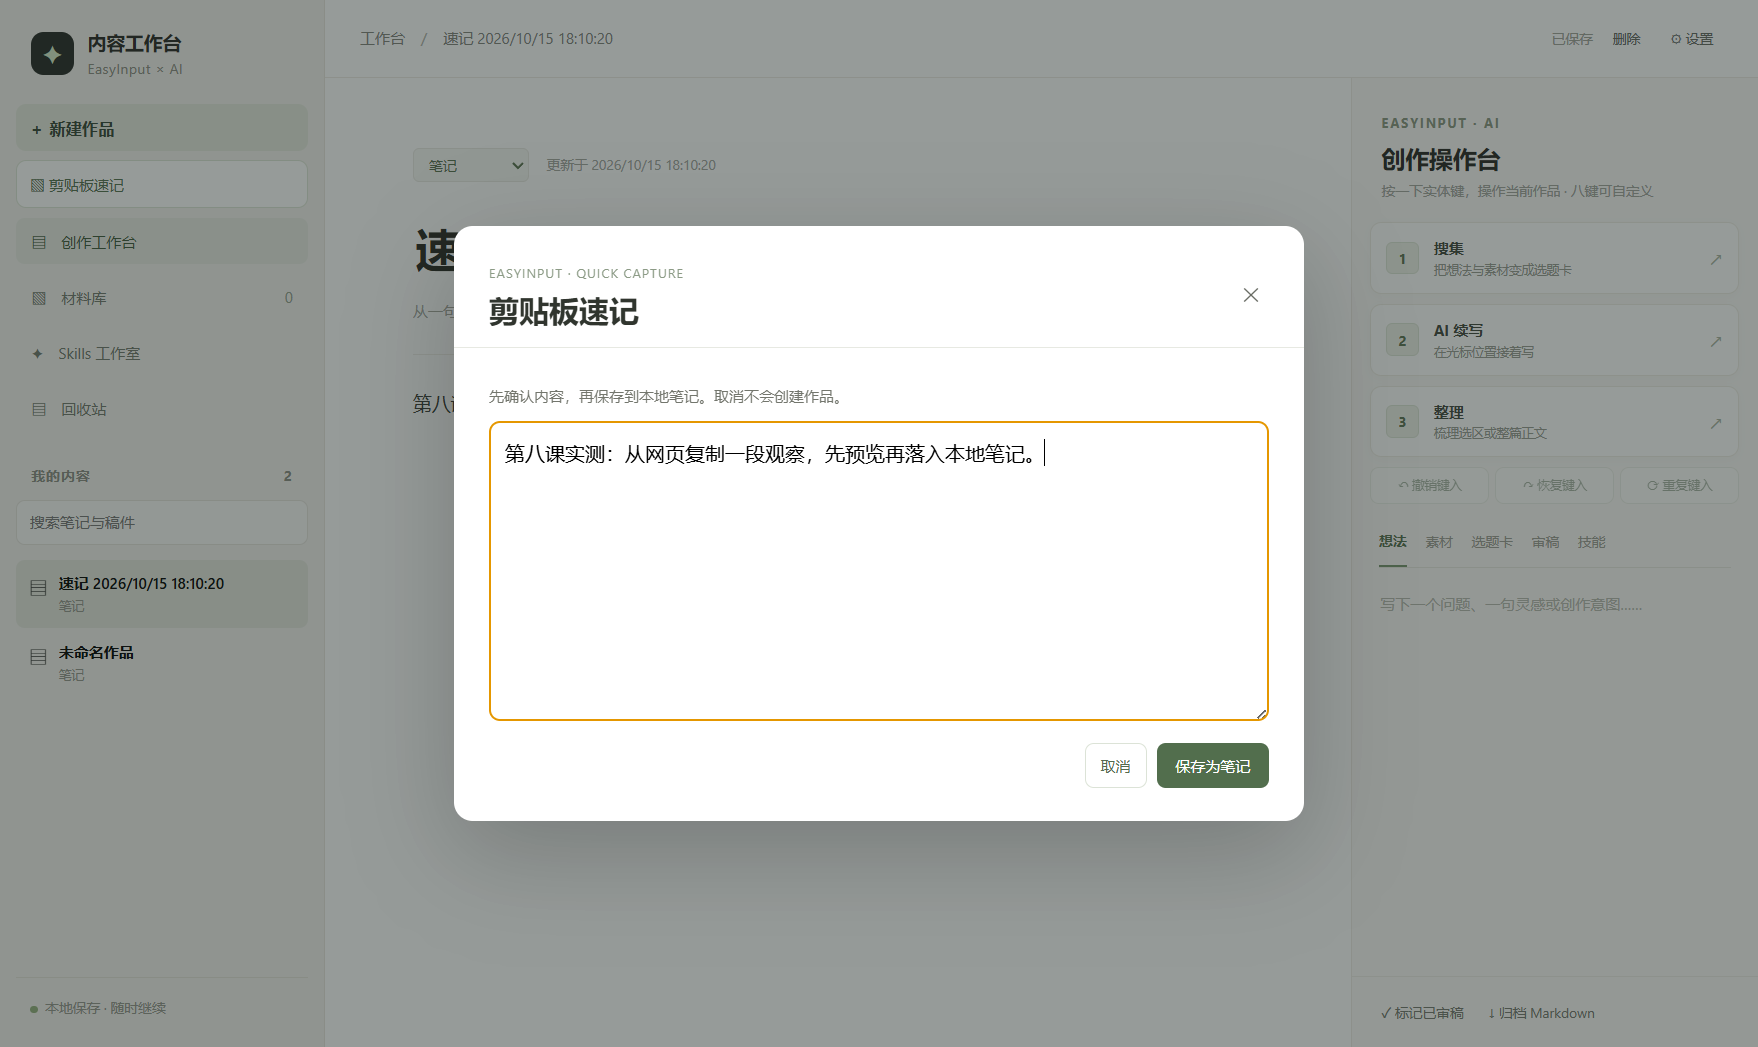
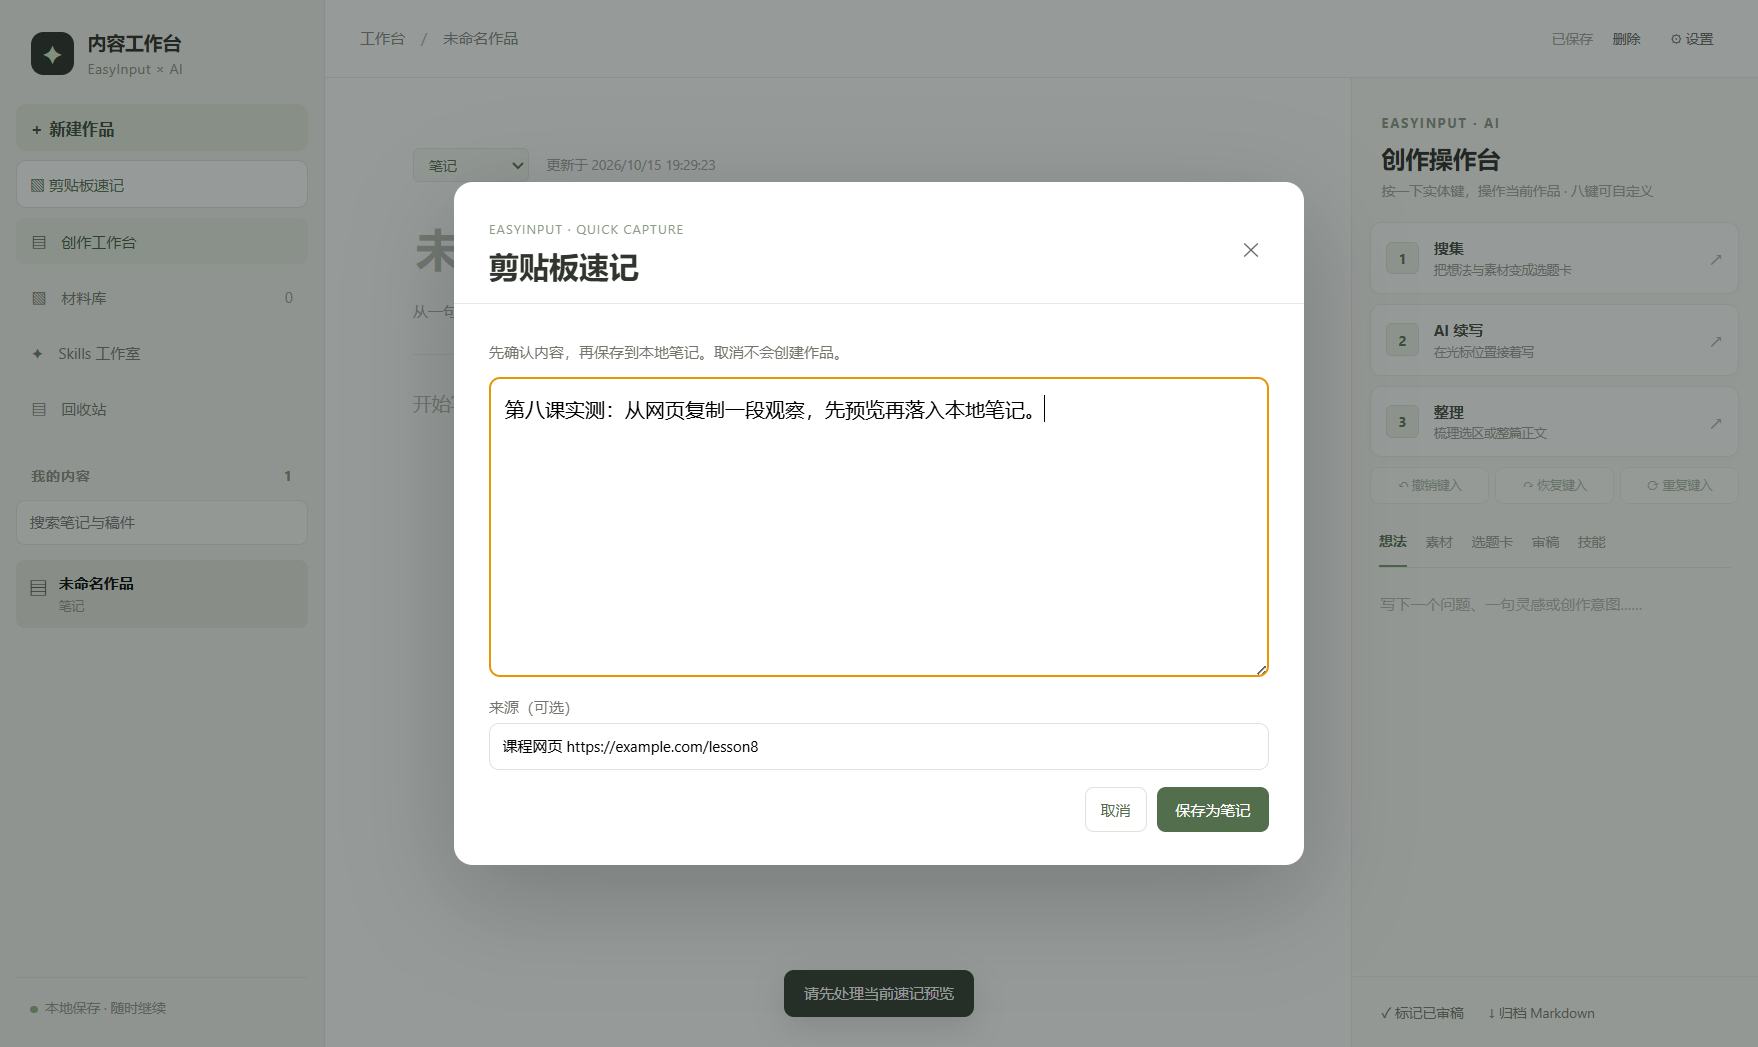
Complete EasyInput quick capture homework evidence

diff --git a/index.html b/index.html
@@ -53,7 +53,7 @@
 <dialog id="continuationDialog" class="continuation-dialog"><div class="dialog-head"><div><small>AI CONTINUE</small><h2>选择续写版本</h2></div><button id="closeContinuation" class="icon-button" aria-label="取消续写">✕</button></div><p class="continuation-help">预览三个版本。选中一个后才会插入原文，关闭则不修改。</p><div id="continuationOptions" class="continuation-options"></div><div class="continuation-footer"><button id="regenerateContinuation" class="subtle-bordered">⟳ 重新 AI 续写 · 再抽三张</button><button id="cancelContinuation" class="subtle">取消</button></div></dialog>
 <dialog id="materialDialog"><div class="dialog-head"><div><small>ADD SOURCE</small><h2 id="materialDialogTitle">添加材料</h2></div><button id="closeMaterialDialog" class="icon-button">✕</button></div><div class="material-form"><label>标题<input id="newMaterialTitle" placeholder="可留空，自动读取文件或网页标题"></label><label>分类<input id="newMaterialCategory" list="categorySuggestions" placeholder="例如：AI产品、写作素材、课程笔记"><datalist id="categorySuggestions"></datalist></label><label id="newMaterialUrlWrap">链接<input id="newMaterialUrl" placeholder="https://..."></label><label id="newMaterialTextWrap">原文<textarea id="newMaterialText" placeholder="粘贴公众号文章、小红书原文、飞书文档内容或纯文本"></textarea></label><label class="checkbox"><input id="newMaterialMarkdown" type="checkbox" checked> 同时存储 Markdown 副本</label><div class="material-options"><label class="checkbox"><input id="newMaterialTranscribe" type="checkbox"> 音视频导入后转文字（千问 API）</label><label class="checkbox"><input id="newMaterialOrganize" type="checkbox"> AI 整理</label><label class="checkbox"><input id="newMaterialSummary" type="checkbox"> AI 摘要</label><label class="checkbox"><input id="newMaterialConvert" type="checkbox"> 智能转 Markdown</label></div><p>AI 处理在导入后运行，可在详情里再次执行；原件始终保留。</p><button id="confirmAddMaterial" class="primary">添加到材料库</button></div></dialog>
 <dialog id="trashDialog"><div class="dialog-head"><div><small>RECYCLE BIN</small><h2>回收站</h2></div><button id="closeTrash" class="icon-button" aria-label="关闭回收站">✕</button></div><p class="trash-hint">删除的作品保存在本机，可在这里恢复。已归档的 Markdown 文件不受影响。</p><div id="trashList" class="trash-list"></div></dialog>
-<dialog id="captureDialog" class="capture-dialog"><div class="dialog-head"><div><small>EASYINPUT · QUICK CAPTURE</small><h2>剪贴板速记</h2></div><button id="closeCapture" class="icon-button" aria-label="关闭速记">✕</button></div><div class="capture-body"><p>先确认内容，再保存到本地笔记。取消不会创建作品。</p><textarea id="captureText" aria-label="速记内容"></textarea><div class="capture-actions"><button id="cancelCapture" class="subtle-bordered">取消</button><button id="saveCapture" class="primary">保存为笔记</button></div></div></dialog>
+<dialog id="captureDialog" class="capture-dialog"><div class="dialog-head"><div><small>EASYINPUT · QUICK CAPTURE</small><h2>剪贴板速记</h2></div><button id="closeCapture" class="icon-button" aria-label="关闭速记">✕</button></div><div class="capture-body"><p>先确认内容，再保存到本地笔记。取消不会创建作品。</p><textarea id="captureText" aria-label="速记内容"></textarea><label class="capture-source-label">来源（可选）<input id="captureSource" maxlength="500" placeholder="网页链接、课程资料或应用名称"></label><div class="capture-actions"><button id="cancelCapture" class="subtle-bordered">取消</button><button id="saveCapture" class="primary">保存为笔记</button></div></div></dialog>
 <dialog id="settingsDialog"><div class="dialog-head"><div><small>WORKBENCH SETTINGS</small><h2>设置</h2></div><button id="closeSettings" class="icon-button">✕</button></div>
   <div class="settings-body"><section><h3>AI 服务</h3><p>选择 Codex 登录态，或填写兼容 Chat Completions 的 API。每次点击创作按钮或按键时才调用 AI。</p>
     <label>服务方式<select id="provider"><option value="codex">Codex（当前登录）</option><option value="deepseek">DeepSeek 官方 API</option><option value="kimi">Kimi 官方 API</option><option value="zhipu">智谱官方 API</option><option value="qwen">千问官方 API</option><option value="custom">自定义兼容接口</option></select></label>

diff --git a/renderer.js b/renderer.js
@@ -3,10 +3,11 @@ const LABELS = { note: '笔记', wechat: '公众号文章', fiction: '小说', p
 const ICONS = { note: '▤', wechat: '◉', fiction: '◈', poetry: '❋', essay: '☷' };
 const STAGE_LABELS = { collect: '搜集', continue: '续写', organize: '整理' };
 const ACTION_LABELS = { collect: '搜集', continue: 'AI 续写', organize: '整理', undo_ai: '撤销键入', redo_ai: '恢复键入', repeat_ai: '重复键入', new_note: '新建笔记', capture_clipboard_note: '剪贴板速记（先预览）', new_wechat: '新建公众号文章', new_fiction: '新建小说', new_poetry: '新建诗歌', new_essay: '新建散文', archive: '归档当前作品', settings: '打开设置', keep: '保留原功能' };
-const DEFAULT_ACTIONS = ['collect', 'continue', 'organize', 'new_note', 'new_wechat', 'new_fiction', 'new_poetry', 'new_essay'];
+const DEFAULT_ACTIONS = ['collect', 'continue', 'organize', 'capture_clipboard_note', 'new_wechat', 'new_fiction', 'new_poetry', 'new_essay'];
 const PANE_PLACEHOLDERS = { idea: '写下一个问题、一句灵感或创作意图……', materials: '粘贴真实素材、出处、人物设定或观察……', topicCard: '按“搜集”生成选题卡，也可以自己编辑……', reviewNotes: '记录审稿意见、修改方向和事实核查……' };
 let items = [], current = null, pane = 'idea', saveTimer = null, saving = Promise.resolve(), busy = false, keyActions = DEFAULT_ACTIONS;
 let keyCheckActive = false;
+let captureSaving = false;
 const keyCheckCounts = Array(8).fill(0);
 function renderKeyCheck() {
   $('toggleKeyCheck').textContent = keyCheckActive ? '结束检测' : '开始检测';
@@ -160,24 +161,33 @@ async function createItem(mode) {
   $('newMenu').classList.add('hidden'); window.libraryUI?.hide(); window.studioUI?.hide(); displayCurrent(); $('title').focus();
 }
 async function captureClipboardNote(text) {
+  if (captureSaving || $('captureDialog').open) { toast('请先处理当前速记预览'); return; }
   const value = String(text || '').trim();
   if (!value) { toast('剪贴板没有文字，未创建笔记'); return; }
   if (value.length > 200000) { toast('剪贴板文字超过单篇笔记上限，未创建笔记'); return; }
   $('captureText').value = value;
+  $('captureSource').value = '';
   $('captureDialog').showModal();
   $('captureText').focus();
 }
 async function saveCapturedNote() {
+  if (captureSaving) return;
   const value = $('captureText').value.trim();
   if (!value) { toast('请输入要保存的文字'); return; }
   if (value.length > 200000) { toast('文字超过单篇笔记上限'); return; }
-  await createItem('note');
-  $('title').value = `速记 ${new Date().toLocaleString('zh-CN')}`;
-  $('draft').value = value;
-  await saveNow({ stage: 'manual', summary: '从剪贴板创建速记' });
-  displayCurrent();
-  $('captureDialog').close();
-  toast('已保存为本地笔记，可以继续整理或引用');
+  const source = $('captureSource').value.trim();
+  captureSaving = true; $('saveCapture').disabled = true;
+  try {
+    await createItem('note');
+    $('title').value = `速记 ${new Date().toLocaleString('zh-CN')}`;
+    $('draft').value = value;
+    current.materials = source ? `来源：${source}` : '来源：剪贴板，原始链接待补充';
+    if (pane === 'materials') $('sideText').value = current.materials;
+    await saveNow({ stage: 'manual', summary: '从剪贴板创建速记' });
+    displayCurrent();
+    $('captureDialog').close();
+    toast('已保存为本地笔记，可以继续整理或引用');
+  } finally { captureSaving = false; $('saveCapture').disabled = false; }
 }
 async function deleteCurrent() {
   if (!current) return;

diff --git a/styles.css b/styles.css
@@ -6,3 +6,4 @@ body{overflow:hidden}.unknowns{max-height:130px;overflow:auto}.settings-body{scr
 .trash-hint{font-size:12px;color:#7d8279;margin:17px 28px}.trash-list{padding:0 28px 26px;max-height:55vh;overflow:auto}.trash-list>p{font-size:13px;color:#8a8f86}.trash-row{display:flex;align-items:center;justify-content:space-between;gap:12px;border-top:1px solid #e9ece6;padding:12px 0;font-size:12px}.trash-row span{overflow:hidden;text-overflow:ellipsis;white-space:nowrap}.trash-row button{flex-shrink:0}.top-actions{display:flex;align-items:center;gap:8px}
 
 .capture-button{background:#fff;border:1px solid #dce5d5;border-radius:8px;color:#526e4d;padding:10px;text-align:left;font-size:12px;margin-top:7px}.capture-button:hover{background:#f5f8f1}.capture-dialog{width:min(680px,90vw)}.capture-body{padding:18px 28px 26px}.capture-body p{font-size:12px;color:#73766d}.capture-body textarea{width:100%;min-height:240px;max-height:52vh;resize:vertical;padding:12px;border:1px solid #dfe3da;border-radius:8px;line-height:1.6}.capture-actions{display:flex;justify-content:flex-end;gap:8px;margin-top:14px}
+.capture-source-label{display:block;margin-top:12px;font-size:12px;color:#73766d}.capture-source-label input{display:block;width:100%;margin-top:5px;padding:10px;border:1px solid #dfe3da;border-radius:8px}.capture-actions .primary:disabled{opacity:.6;cursor:progress}

diff --git a/LESSON8-HOMEWORK.md b/LESSON8-HOMEWORK.md
@@ -1,6 +1,6 @@
 # 第八课作业：让 EasyInput 一键收集跨应用素材
 
-**选择方向：方向一，在现有 EasyInput 八键开发板与第四课 AI 内容工作台上做功能延伸。**
+**选择方向：方向一，在现有 EasyInput 八键开发板与第四课 AI 内容工作台上做功能延伸。** 本次交付包含可运行源码、Windows 打包版验证、软件测试截图及一次实体 KEY4 联调记录。
 
 ## 1. 想法与真实场景
 
@@ -10,18 +10,18 @@
 
 ## 2. 方案、资料与选型
 
-硬件是第四课已联调的 EasyInput AI 八键设备。设备按键通过现有配置发送 `Ctrl+Alt+Shift+1…8`，桌面工作台注册相同的全局快捷键，再按当前应用的键位映射执行动作。这次把 KEY4 的应用动作从“新建笔记”扩展成可选的“剪贴板速记（先预览）”。实体键输出的快捷键协议保持不变，因此不需要重新烧录。日常配置未被本次独立测试覆盖；功能也有界面按钮，便于没有设备时试用。
+硬件是第四课已联调的 EasyInput AI 八键设备。设备按键通过现有配置发送 `Ctrl+Alt+Shift+1…8`，桌面工作台注册相同的全局快捷键，再按当前应用的键位映射执行动作。本次将**新安装用户**的 KEY4 默认动作设为“剪贴板速记（先预览）”；已经保存过八键映射的用户继续沿用原配置，可以在设置页自行把 KEY4 或其他键改为速记。实体键输出的快捷键协议保持不变，因此不需要重新烧录。侧栏按钮也可触发同一流程，便于没有设备时试用。
 
 参照资料：[第八课作业指南](https://waytoagi.feishu.cn/wiki/Ar5hwqGkTiZTyskdp7ScE0TinAm)、[训练营主文档](https://waytoagi.feishu.cn/wiki/YUfhwbwdUiYXtYkCru7cfKaGnWb?chunked=false)、本项目[第四课实践报告](HOMEWORK-SUBMISSION.md)以及 EasyInput 设备[原有八键检测记录](artifacts/easyinput-hardware-check.json)。指南明确两条方向任选其一，方向一看现有板或工程上“加了/改了什么功能”，并建议软硬件协同、场景化设计、明确反馈与效果证据。
 
 ## 3. 实现过程
 
-1. 在应用的键位动作白名单与设置下拉框加入“剪贴板速记”。已有 KEY1—KEY8 默认映射维持原状，用户可以任选一个实体键重新分配。
-2. Electron 主进程在收到对应全局快捷键时读取系统剪贴板文字，并把内容交给工作台窗口；侧栏按钮也可启动同一流程。
-3. 工作台先打开可编辑的预览框。剪贴板为空或超过单篇笔记长度限制时给出反馈，不创建作品；取消预览也不创建作品。
-4. 用户确认后才生成带时间标题的本地笔记，保存正文和“从剪贴板创建速记”历史记录。保存后可以继续用原来的整理、Skill 和归档功能。
+1. `lib/settings.cjs` 增加速记动作，并设为新安装用户的 KEY4 默认动作；读取已有 `settings.json` 时保留用户原键位。
+2. `main.cjs` 收到 KEY4 对应的全局快捷键时读取系统剪贴板文字，再把内容发到工作台窗口；侧栏按钮通过 `preload.cjs` 读取剪贴板，进入同一个预览函数。
+3. `renderer.js` 先打开可编辑预览。剪贴板为空或超过 20 万字符时提示且不建笔记；已有预览时再次按键不会覆盖正在编辑的内容。用户可填写最多 500 字的来源，例如网页链接或课程资料。
+4. 用户确认后才生成带时间标题的本地笔记，保存正文、来源及“从剪贴板创建速记”历史记录。保存按钮处理期间禁用，避免连点产生重复笔记；取消则不落盘。新笔记可继续使用第四课已有的整理、Skill、材料引用和归档功能。
 
-数据保存在本机工作台数据目录。这个功能不自动调用 AI，也不自动发布复制内容。新笔记需要用户确认，有明确的成功提示；本次功能没有新增云端服务和硬件器件。
+数据保存在本机工作台数据目录。这个功能不自动调用 AI，也不自动发布复制内容。新笔记需要用户确认，有明确的成功提示；本次功能没有新增云端服务和硬件器件。快捷键由系统全局注册，其他程序占用同一组合键时，应在工作台设置页检查注册状态并调整冲突。
 
 ## 4. 验证与效果
 
@@ -29,24 +29,27 @@
 
 | 验证动作 | 实际结果 |
 | --- | --- |
+| 新安装与已有设置 | 新安装默认 KEY4 为速记；已有八键设置保持原值 |
+| 空白、超长剪贴板 | 均拦截，预览不打开，作品数保持 1 |
 | 点击速记入口 | 预览框打开，显示剪贴板文字；作品数保持 1 |
+| 预览期间再次触发 | 原正文及来源输入保持不变 |
 | 取消预览 | 预览框关闭，作品数仍为 1 |
-| 再次打开并确认 | 作品数变为 2；新笔记正文与测试文字一致，历史记录写入“从剪贴板创建速记” |
-| Windows 打包版 | 独立数据目录重复预览、取消、保存流程，结果一致；生成 `release-lesson8/win-unpacked/AI 内容工作台.exe` |
-| 回归检查 | `npm test` 13 项通过，`node --check` 检查主进程和界面脚本通过 |
+| 再次打开、填写来源并连点保存 | 作品数只增加 1；新笔记正文与测试文字一致，素材字段为“来源：课程网页 https://example.com/lesson8”，历史记录为“从剪贴板创建速记” |
+| Windows 打包版 | 重新生成 `release-lesson8/win-unpacked/AI 内容工作台.exe`，用另一独立数据目录重复上述界面验证，结果一致 |
+| 回归检查 | `npm test` 14 项通过；界面脚本与验证脚本通过 `node --check`；`git diff --check` 通过 |
 
 ![剪贴板文字先进入可编辑预览框](artifacts/lesson8-quick-capture-preview.png)
 
 ![确认后保存为本地笔记](artifacts/lesson8-quick-capture.png)
 
-第四课留下的硬件基线证据是：Windows 识别到 EasyInput，原程序报告配置同步成功，实体八键第二轮逐键测试每键各计一次，KEY3 在真实按键触发下完成一次“整理”。本次又在隔离的测试配置中把 KEY4 指向新动作，应用报告八个全局快捷键均已注册。2026 年 10 月 15 日，用户短按实体 KEY4 后**现场确认看到了“剪贴板速记”预览框，并点击保存**。测试目录作品数从 2 变为 3，新作品标题带时间，历史记录为“从剪贴板创建速记”；保存的正文是用户当时剪贴板中的 402 字，未对外展示。记录见[真机验证摘要](artifacts/lesson8-hardware-check.json)。这次是用户现场确认与应用落盘记录的组合证据；没有把旧的八键计数当成新功能结果，也没有声称记录到设备内部日志。
+第四课留下的硬件基线证据是：Windows 识别到 EasyInput，原程序报告配置同步成功，实体八键第二轮逐键测试每键各计一次，KEY3 在真实按键触发下完成一次“整理”。本次又在隔离的测试配置中把 KEY4 指向新动作，应用报告八个全局快捷键均已注册。2026 年 10 月 15 日，用户短按实体 KEY4 后**现场确认看到了“剪贴板速记”预览框，并点击保存**。测试目录作品数从 2 变为 3，新作品标题带时间，历史记录为“从剪贴板创建速记”；保存的正文是用户当时剪贴板中的 402 字，未对外展示。记录见[真机验证摘要](artifacts/lesson8-hardware-check.json)。这次是用户现场确认与应用落盘记录的组合证据；没有把旧的八键计数当成新功能结果，也没有声称记录到设备内部日志。增强版新增的来源输入与新默认键位已通过软件验证，真机联调发生在增强前的速记版本，因此不把真机结果说成新增来源输入的验证。
 
 ## 5. 调试、边界与下一步
 
 开发时先用同一套入口连接按钮与实体键，避免两条路径出现不同的保存逻辑。用独立数据目录验证“取消不落盘”和“确认才落盘”，而不是只看弹窗能打开。预览可编辑，用户能在保存前删去复制内容中无关的文字。截图、自动测试和真实实体键各证明不同层面，报告会把它们分开写。
 
-当前功能完成了软件实现、打包版验证与一次实体 KEY4 联调。为避免改变日常键位，本次 KEY4 新动作只写在独立测试配置中；正式使用时可在设置页选择该动作并按既有 EasyInput 流程同步。后续可加“来源应用/网址”手动填写与重复内容提醒，但这两项本次未实现，不影响现有速记功能。
+当前功能完成了软件实现、一次实体 KEY4 联调与来源追溯的基础设计。测试数据目录与真实作品分开；真机当时读到用户的实际剪贴板内容，而不是预设测试句子，因此报告只公开字符数和操作结果。现阶段尚无内容去重，也没有自动识别来源网址；来源需要用户手填，后续可加重复内容提醒和来源自动识别。
 
 ## 6. 提交说明
 
-本报告、源码、验证脚本和截图随仓库保存。第八课提交表单要求**可公开访问的有效作品链接**，请提交本报告的公开仓库页面链接，而不是本地磁盘路径。提交入口：[第七期 AI 硬件作业表单](https://waytoagi.feishu.cn/share/base/form/shrcnc0CBQ8omUWJ4wNkzBqKjVb?from=navigation)。训练营主文档写明：2026 年 10 月 15 日 23:59 为优秀学员评选截止，10 月 26 日 23:59 为最晚作业提交时间。
+本报告、源码、验证脚本和截图随仓库保存。公开作品入口：[GitHub 作业报告](https://github.com/yingchao4399/ai-content-workbench/blob/lesson8-quick-capture/LESSON8-HOMEWORK.md)；源码从同一分支进入。运行方法：安装 Node.js 后在项目目录执行 `npm ci`、`npm start`，点击左侧“剪贴板速记”；有 EasyInput 的用户可按 KEY4 或在设置页改键。复现实验用独立数据目录启动 Electron，并执行 `node scripts/verify-lesson8.cjs`（需在 9338 端口启用 Chrome DevTools Protocol，并预先把验证句子放入剪贴板）。Windows 打包版位于本地产物 `release-lesson8/win-unpacked/AI 内容工作台.exe`，未上传仓库。训练营主文档写明：2026 年 10 月 15 日 23:59 为优秀学员评选截止，10 月 26 日 23:59 为最晚作业提交时间。
